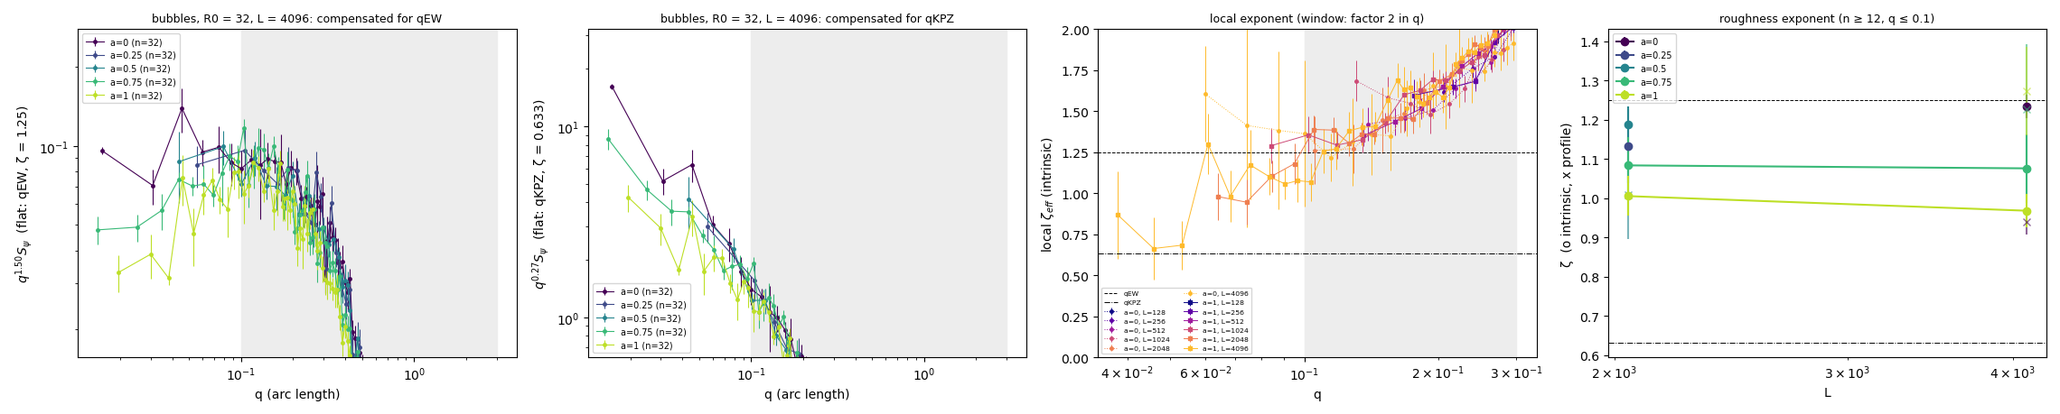
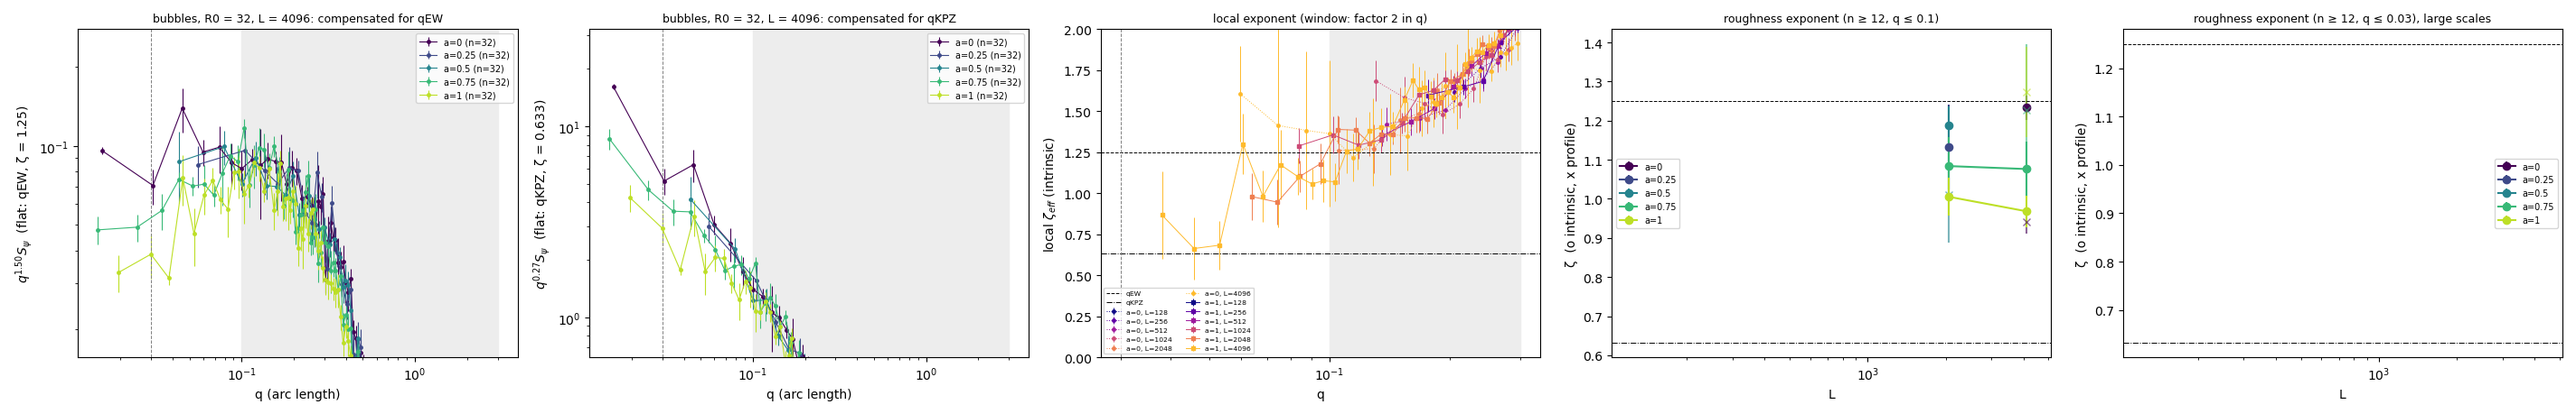
figures: fixed x range of the zeta(L) panels (an all-nan large-scale panel broke the R32 run)

diff --git a/bubble_sim/analysis/figures.py b/bubble_sim/analysis/figures.py
@@ -252,7 +252,8 @@ def roughness(sets, out, cfg, txt):
             ax = axs[row, c]
             for name, zz, ls in ZETA_REF:
                 ax.axhline(zz, color="k", ls=ls, lw=0.7)
-            ax.set_xscale("log"); ax.set_xlabel("L"); ax.set_ylabel("ζ  (o intrinsic, x profile)")
+            ax.set_xscale("log"); ax.set_xlim(min(Ls) / 1.25, max(Ls) * 1.25)   # also when all ζ are nan
+            ax.set_xlabel("L"); ax.set_ylabel("ζ  (o intrinsic, x profile)")
             ax.set_title(f"roughness exponent (n ≥ {n_min}, q ≤ {qq:g})" + (", large scales" if c == 4 else ""),
                          fontsize=9)
             ax.legend(fontsize=7)
